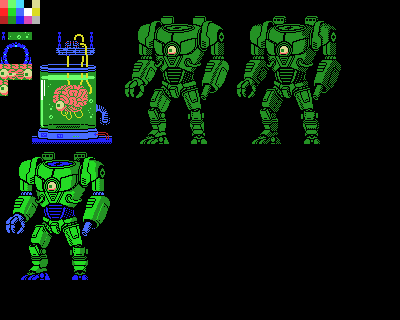
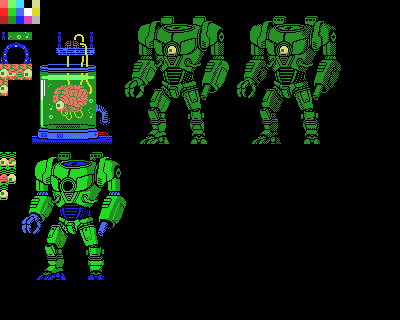
finalized first version of the suit, and added suit eye animations

Changed region(s): [[0.0, 0.4688, 0.33, 0.875]]

diff --git a/java/src/xspelunker2/Bosses.java b/java/src/xspelunker2/Bosses.java
@@ -1106,7 +1106,7 @@ public class Bosses {
             List<int[][]> nametables = addBossTilesInGapsForBoxes(nameTableBoxes, baseImage, boss5Tiles, availableTiles, collision, false, false);
 
             int nameTable[][] = nametables.get(0);
-//            addNameTable(nameTable, 0, 0, 14, 16, nameTableData);  // suit
+//            addNameTable(nameTable, 2, 0, 16, 16, nameTableData);  // suit
             
             ImageIO.write(baseImage, "png", new File("data/boss8-phase2-bank1-tiles.png"));
             GenerateTiles.extractTiles("data/boss8-phase2-bank1-tiles.png", "src/autogenerated/boss8-phase2-bank1-tiles", 24, 128);
